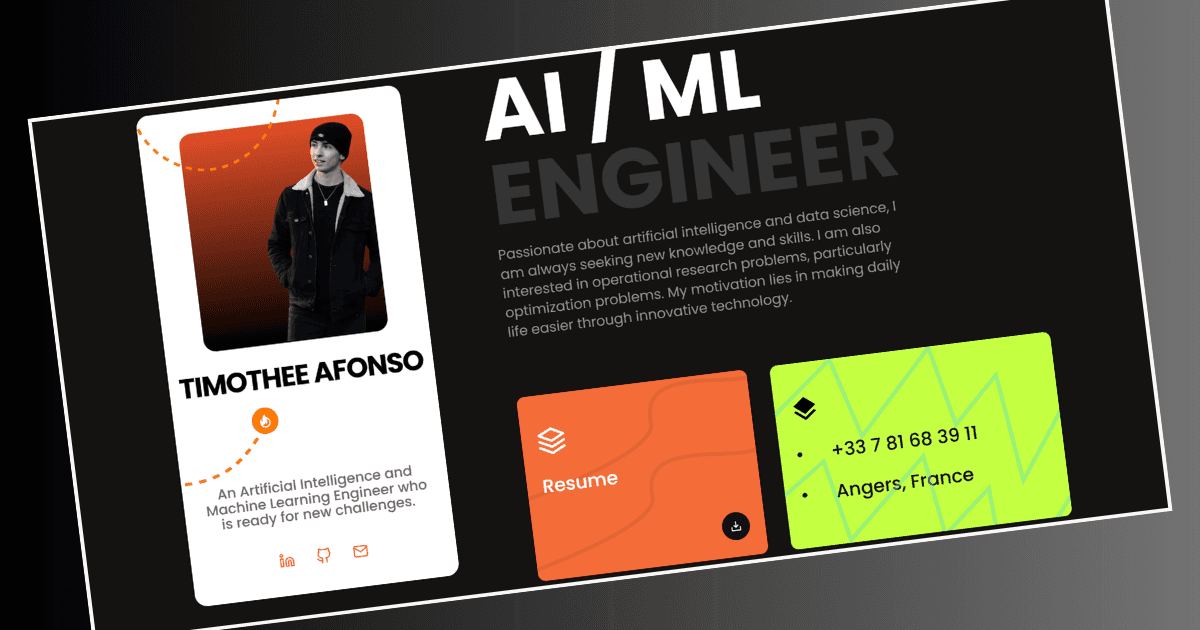
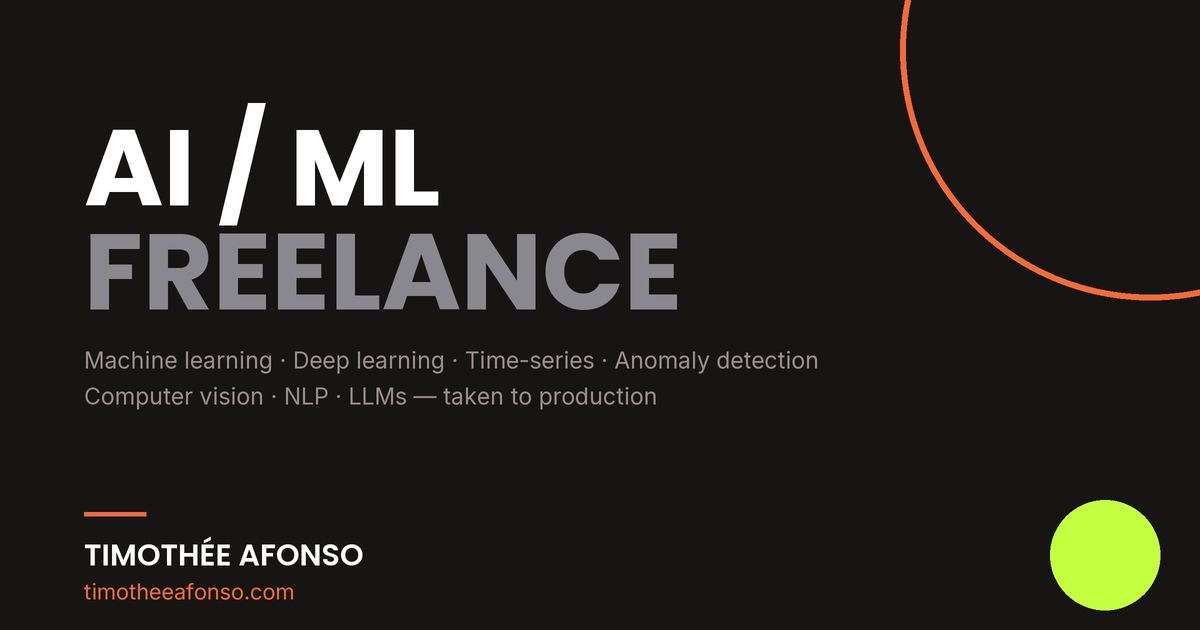
Image de partage refaite : nette, sans donnees obsoletes
L'ancienne og-image etait une capture quantifiee a 47 couleurs, d'ou le rendu
flou sur LinkedIn. Elle diffusait aussi un numero de telephone, la mention
Angers et l'ancienne bio, tous retires du site depuis.

Nouvelle image typographique 1200x630 rendue en 2x puis reduite, avec la
police Poppins du site et les couleurs de la charte. Variante francaise
og-image-fr.png servie par les pages /fr/.

diff --git a/fr/projects.html b/fr/projects.html
@@ -11,7 +11,7 @@
 <meta property="og:url" content="https://timotheeafonso.com/fr/projects.html">
 <meta property="og:title" content="Projets IA &amp; vision par ordinateur — Timothée Afonso">
 <meta property="og:description" content="Missions client et projets R&amp;D en vision par ordinateur, NLP et machine learning — détection d’objets, modélisation 3D, détection d’anomalies en temps réel.">
-<meta property="og:image" content="https://timotheeafonso.com/assets/img/og-image.png">
+<meta property="og:image" content="https://timotheeafonso.com/assets/img/og-image-fr.png">
 <meta property="og:image:width" content="1200">
 <meta property="og:image:height" content="630">
 <meta property="og:image:alt" content="Timothée Afonso — ingénieur IA freelance">
@@ -20,7 +20,7 @@
 <meta name="twitter:card" content="summary_large_image">
 <meta name="twitter:title" content="Projets IA &amp; vision par ordinateur — Timothée Afonso">
 <meta name="twitter:description" content="Missions client et projets R&amp;D en vision par ordinateur, NLP et machine learning — détection d’objets, modélisation 3D, détection d’anomalies en temps réel.">
-<meta name="twitter:image" content="https://timotheeafonso.com/assets/img/og-image.png">
+<meta name="twitter:image" content="https://timotheeafonso.com/assets/img/og-image-fr.png">
 <link rel="icon" href="../assets/img/favicon.png" sizes="48x48">
 <link rel="apple-touch-icon" href="../assets/img/apple-touch-icon.png">
 <link rel="alternate" hreflang="en" href="https://timotheeafonso.com/projects.html">

diff --git a/fr/skill.html b/fr/skill.html
@@ -11,7 +11,7 @@
 <meta property="og:url" content="https://timotheeafonso.com/fr/skill.html">
 <meta property="og:title" content="Stack technique — Python, PyTorch, vision par ordinateur | Timothée Afonso">
 <meta property="og:description" content="La stack que j’utilise comme ingénieur IA freelance : Python, PyTorch, TensorFlow, OpenCV, Hugging Face, FastAPI, SQL, AWS et Google Cloud Platform.">
-<meta property="og:image" content="https://timotheeafonso.com/assets/img/og-image.png">
+<meta property="og:image" content="https://timotheeafonso.com/assets/img/og-image-fr.png">
 <meta property="og:image:width" content="1200">
 <meta property="og:image:height" content="630">
 <meta property="og:image:alt" content="Timothée Afonso — ingénieur IA freelance">
@@ -20,7 +20,7 @@
 <meta name="twitter:card" content="summary_large_image">
 <meta name="twitter:title" content="Stack technique — Python, PyTorch, vision par ordinateur | Timothée Afonso">
 <meta name="twitter:description" content="La stack que j’utilise comme ingénieur IA freelance : Python, PyTorch, TensorFlow, OpenCV, Hugging Face, FastAPI, SQL, AWS et Google Cloud Platform.">
-<meta name="twitter:image" content="https://timotheeafonso.com/assets/img/og-image.png">
+<meta name="twitter:image" content="https://timotheeafonso.com/assets/img/og-image-fr.png">
 <link rel="icon" href="../assets/img/favicon.png" sizes="48x48">
 <link rel="apple-touch-icon" href="../assets/img/apple-touch-icon.png">
 <link rel="alternate" hreflang="en" href="https://timotheeafonso.com/skill.html">

diff --git a/fr/experience.html b/fr/experience.html
@@ -11,7 +11,7 @@
 <meta property="og:url" content="https://timotheeafonso.com/fr/experience.html">
 <meta property="og:title" content="Expériences — Ingénieur IA / ML freelance | Timothée Afonso">
 <meta property="og:description" content="Missions chez Self-Storage.AI, Limagrain et CPAM — vision par ordinateur, LLM et APIs déployées sur Google Cloud. Ingénieur IA / ML freelance, en remote.">
-<meta property="og:image" content="https://timotheeafonso.com/assets/img/og-image.png">
+<meta property="og:image" content="https://timotheeafonso.com/assets/img/og-image-fr.png">
 <meta property="og:image:width" content="1200">
 <meta property="og:image:height" content="630">
 <meta property="og:image:alt" content="Timothée Afonso — ingénieur IA freelance">
@@ -20,7 +20,7 @@
 <meta name="twitter:card" content="summary_large_image">
 <meta name="twitter:title" content="Expériences — Ingénieur IA / ML freelance | Timothée Afonso">
 <meta name="twitter:description" content="Missions chez Self-Storage.AI, Limagrain et CPAM — vision par ordinateur, LLM et APIs déployées sur Google Cloud. Ingénieur IA / ML freelance, en remote.">
-<meta name="twitter:image" content="https://timotheeafonso.com/assets/img/og-image.png">
+<meta name="twitter:image" content="https://timotheeafonso.com/assets/img/og-image-fr.png">
 <link rel="icon" href="../assets/img/favicon.png" sizes="48x48">
 <link rel="apple-touch-icon" href="../assets/img/apple-touch-icon.png">
 <link rel="alternate" hreflang="en" href="https://timotheeafonso.com/experience.html">

diff --git a/fr/index.html b/fr/index.html
@@ -11,7 +11,7 @@
 <meta property="og:url" content="https://timotheeafonso.com/fr/">
 <meta property="og:title" content="Timothée Afonso — Ingénieur IA freelance">
 <meta property="og:description" content="Ingénieur IA / ML freelance. Machine learning et deep learning — feature engineering, prédiction, vision par ordinateur, NLP et LLM — jusqu’à la mise en production. Missions en remote.">
-<meta property="og:image" content="https://timotheeafonso.com/assets/img/og-image.png">
+<meta property="og:image" content="https://timotheeafonso.com/assets/img/og-image-fr.png">
 <meta property="og:image:width" content="1200">
 <meta property="og:image:height" content="630">
 <meta property="og:image:alt" content="Timothée Afonso — ingénieur IA freelance">
@@ -20,7 +20,7 @@
 <meta name="twitter:card" content="summary_large_image">
 <meta name="twitter:title" content="Timothée Afonso — Ingénieur IA freelance">
 <meta name="twitter:description" content="Ingénieur IA / ML freelance. Machine learning et deep learning — feature engineering, prédiction, vision par ordinateur, NLP et LLM — jusqu’à la mise en production. Missions en remote.">
-<meta name="twitter:image" content="https://timotheeafonso.com/assets/img/og-image.png">
+<meta name="twitter:image" content="https://timotheeafonso.com/assets/img/og-image-fr.png">
 <link rel="icon" href="../assets/img/favicon.png" sizes="48x48">
 <link rel="apple-touch-icon" href="../assets/img/apple-touch-icon.png">
 <link rel="alternate" hreflang="en" href="https://timotheeafonso.com/">

diff --git a/fr/mentions-legales.html b/fr/mentions-legales.html
@@ -11,7 +11,7 @@
 <meta property="og:url" content="https://timotheeafonso.com/fr/mentions-legales.html">
 <meta property="og:title" content="Mentions légales — Timothée Afonso">
 <meta property="og:description" content="Mentions légales du site de Timothée Afonso, ingénieur IA / ML freelance : éditeur, hébergement, propriété intellectuelle, données personnelles et cookies.">
-<meta property="og:image" content="https://timotheeafonso.com/assets/img/og-image.png">
+<meta property="og:image" content="https://timotheeafonso.com/assets/img/og-image-fr.png">
 <meta property="og:image:width" content="1200">
 <meta property="og:image:height" content="630">
 <meta property="og:image:alt" content="Timothée Afonso — ingénieur IA freelance">
@@ -20,7 +20,7 @@
 <meta name="twitter:card" content="summary_large_image">
 <meta name="twitter:title" content="Mentions légales — Timothée Afonso">
 <meta name="twitter:description" content="Mentions légales du site de Timothée Afonso, ingénieur IA / ML freelance : éditeur, hébergement, propriété intellectuelle, données personnelles et cookies.">
-<meta name="twitter:image" content="https://timotheeafonso.com/assets/img/og-image.png">
+<meta name="twitter:image" content="https://timotheeafonso.com/assets/img/og-image-fr.png">
 <link rel="icon" href="../assets/img/favicon.png" sizes="48x48">
 <link rel="apple-touch-icon" href="../assets/img/apple-touch-icon.png">
 <link rel="alternate" hreflang="en" href="https://timotheeafonso.com/legal.html">
